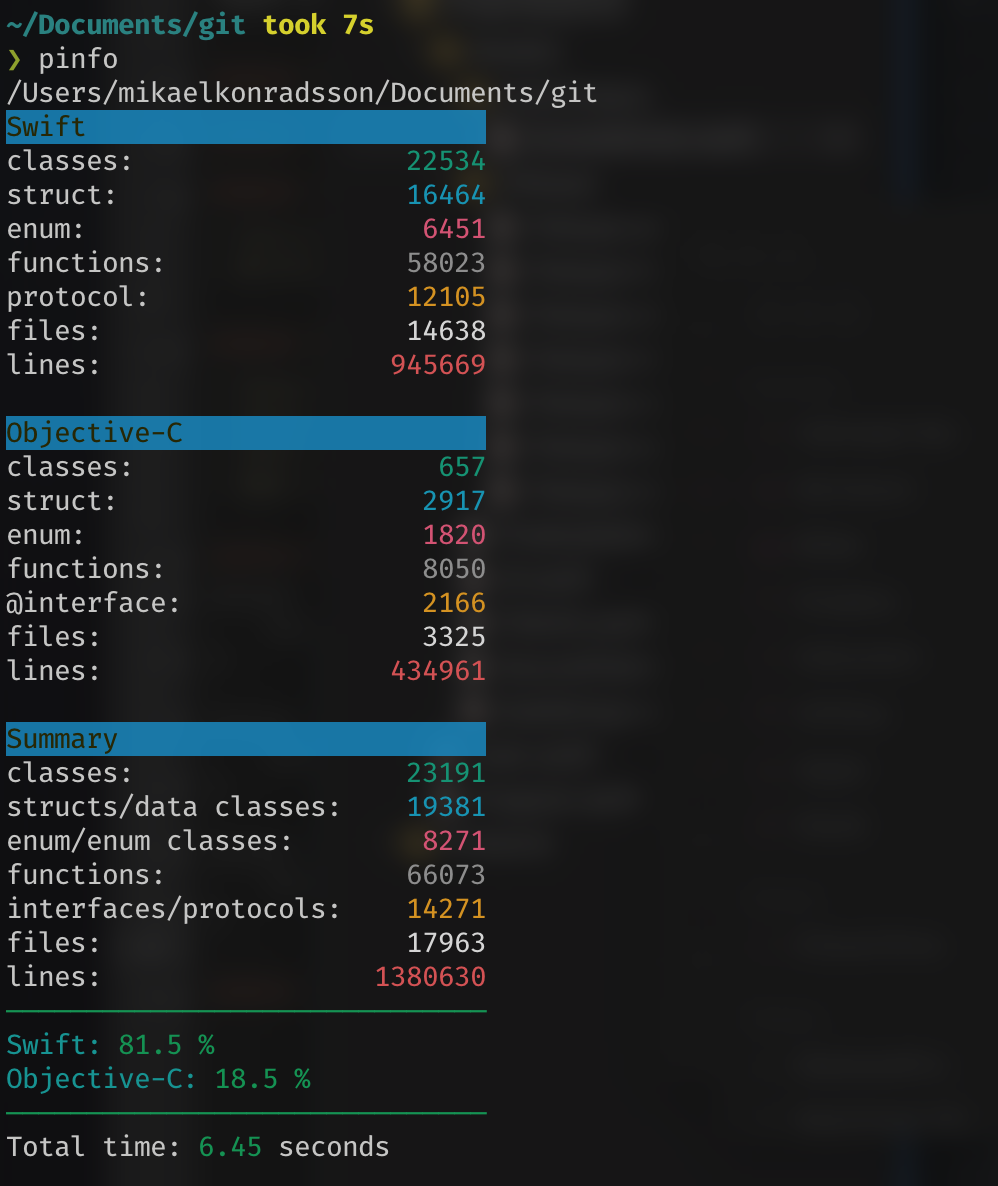
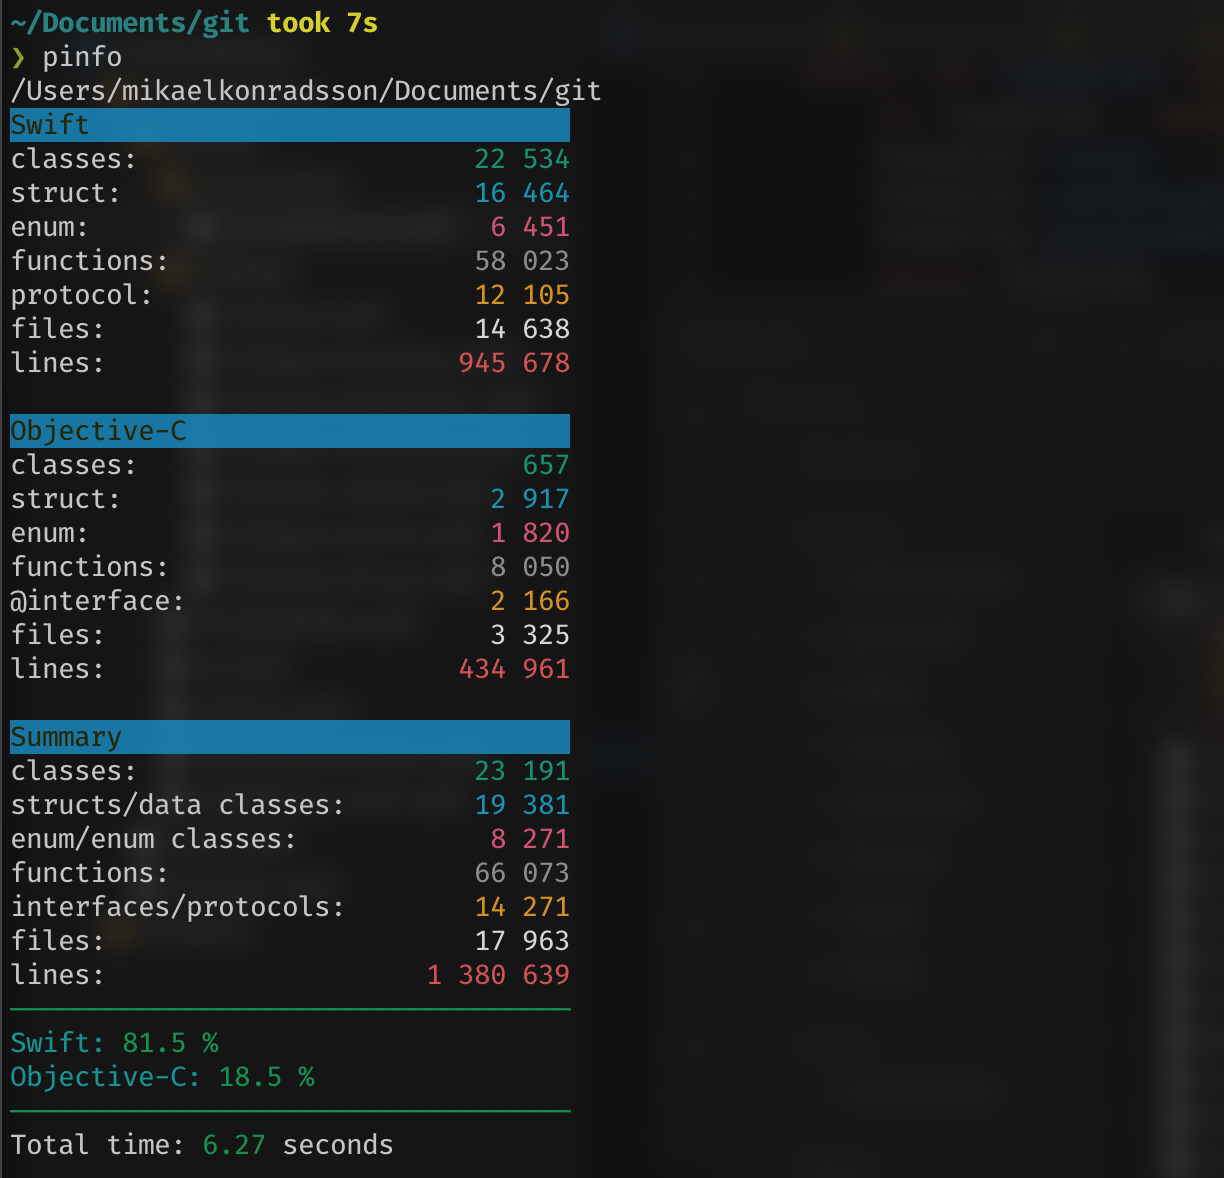
Updated screenshot

Changed region(s): [[0.0, 0.0, 0.5902, 0.9779], [0.3417, 0.6112, 0.497, 0.8557], [0.4038, 0.0, 0.4349, 0.0306]]

diff --git a/Projectexplorer/Program.swift b/Projectexplorer/Program.swift
@@ -21,7 +21,7 @@ fileprivate extension Predicate where A == String {
 struct Program {
 
     private func lineSeparator(color: TerminalColor = .accentColor) -> IO<Void> {
-        printRepeatingCharacter("—", count: 30, color: color)
+        printRepeatingCharacter("—", count: 35, color: color)
     }
 
 	private func startProgramWithMessage(_ message: String) -> IO<Void> {
@@ -109,7 +109,7 @@ struct Program {
 		}
 
 		return IO {
-				let width = 30
+				let width = 35
 				Console.output(filetype.description, color: .white, lineWidth: width)
 				Console.output("classes:", data: classes, color: .classColor, width: width)
 				Console.output("\(filetype.structs.trimEnd):", data: structs, color: .structColor, width: width)
